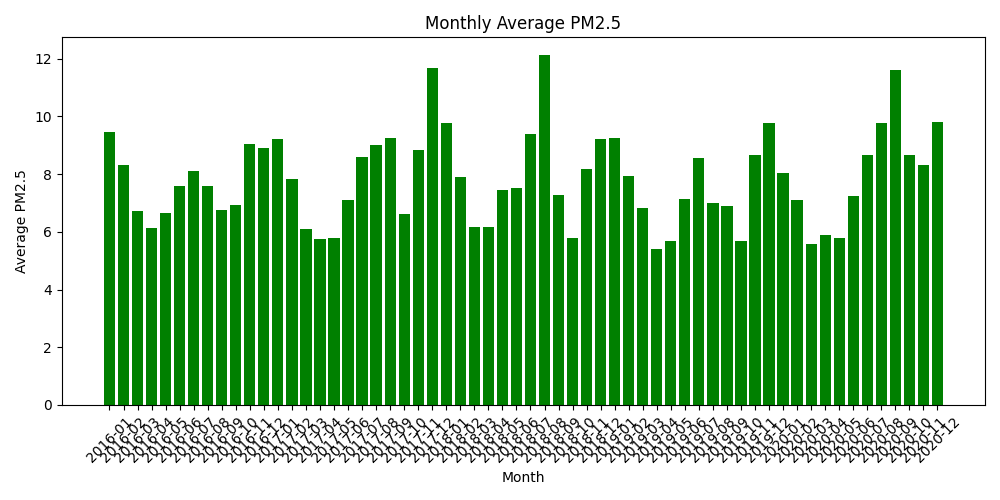
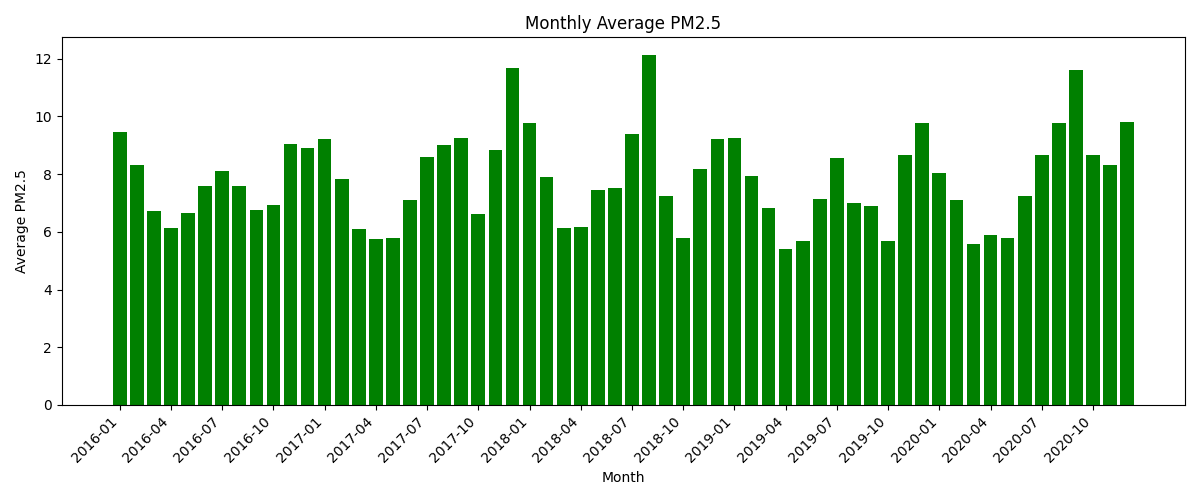
Improve monthly chart date labels

diff --git a/air_quality_analysis.py b/air_quality_analysis.py
@@ -53,12 +53,20 @@ plt.xticks(rotation=45)
 plt.tight_layout()
 plt.savefig("pm25_over_time.png")
 
-plt.figure(figsize=(10, 5))
-plt.bar(monthly_avg["Month"], monthly_avg["PM2.5"], color="green")
+plt.figure(figsize=(12, 5))
+positions = range(len(monthly_avg))
+tick_step = 3
+
+plt.bar(positions, monthly_avg["PM2.5"], color="green")
 plt.title("Monthly Average PM2.5")
 plt.xlabel("Month")
 plt.ylabel("Average PM2.5")
-plt.xticks(rotation=45)
+plt.xticks(
+    positions[::tick_step],
+    monthly_avg["Month"][::tick_step],
+    rotation=45,
+    ha="right"
+)
 plt.tight_layout()
 plt.savefig("monthly_avg_pm25.png")
 
